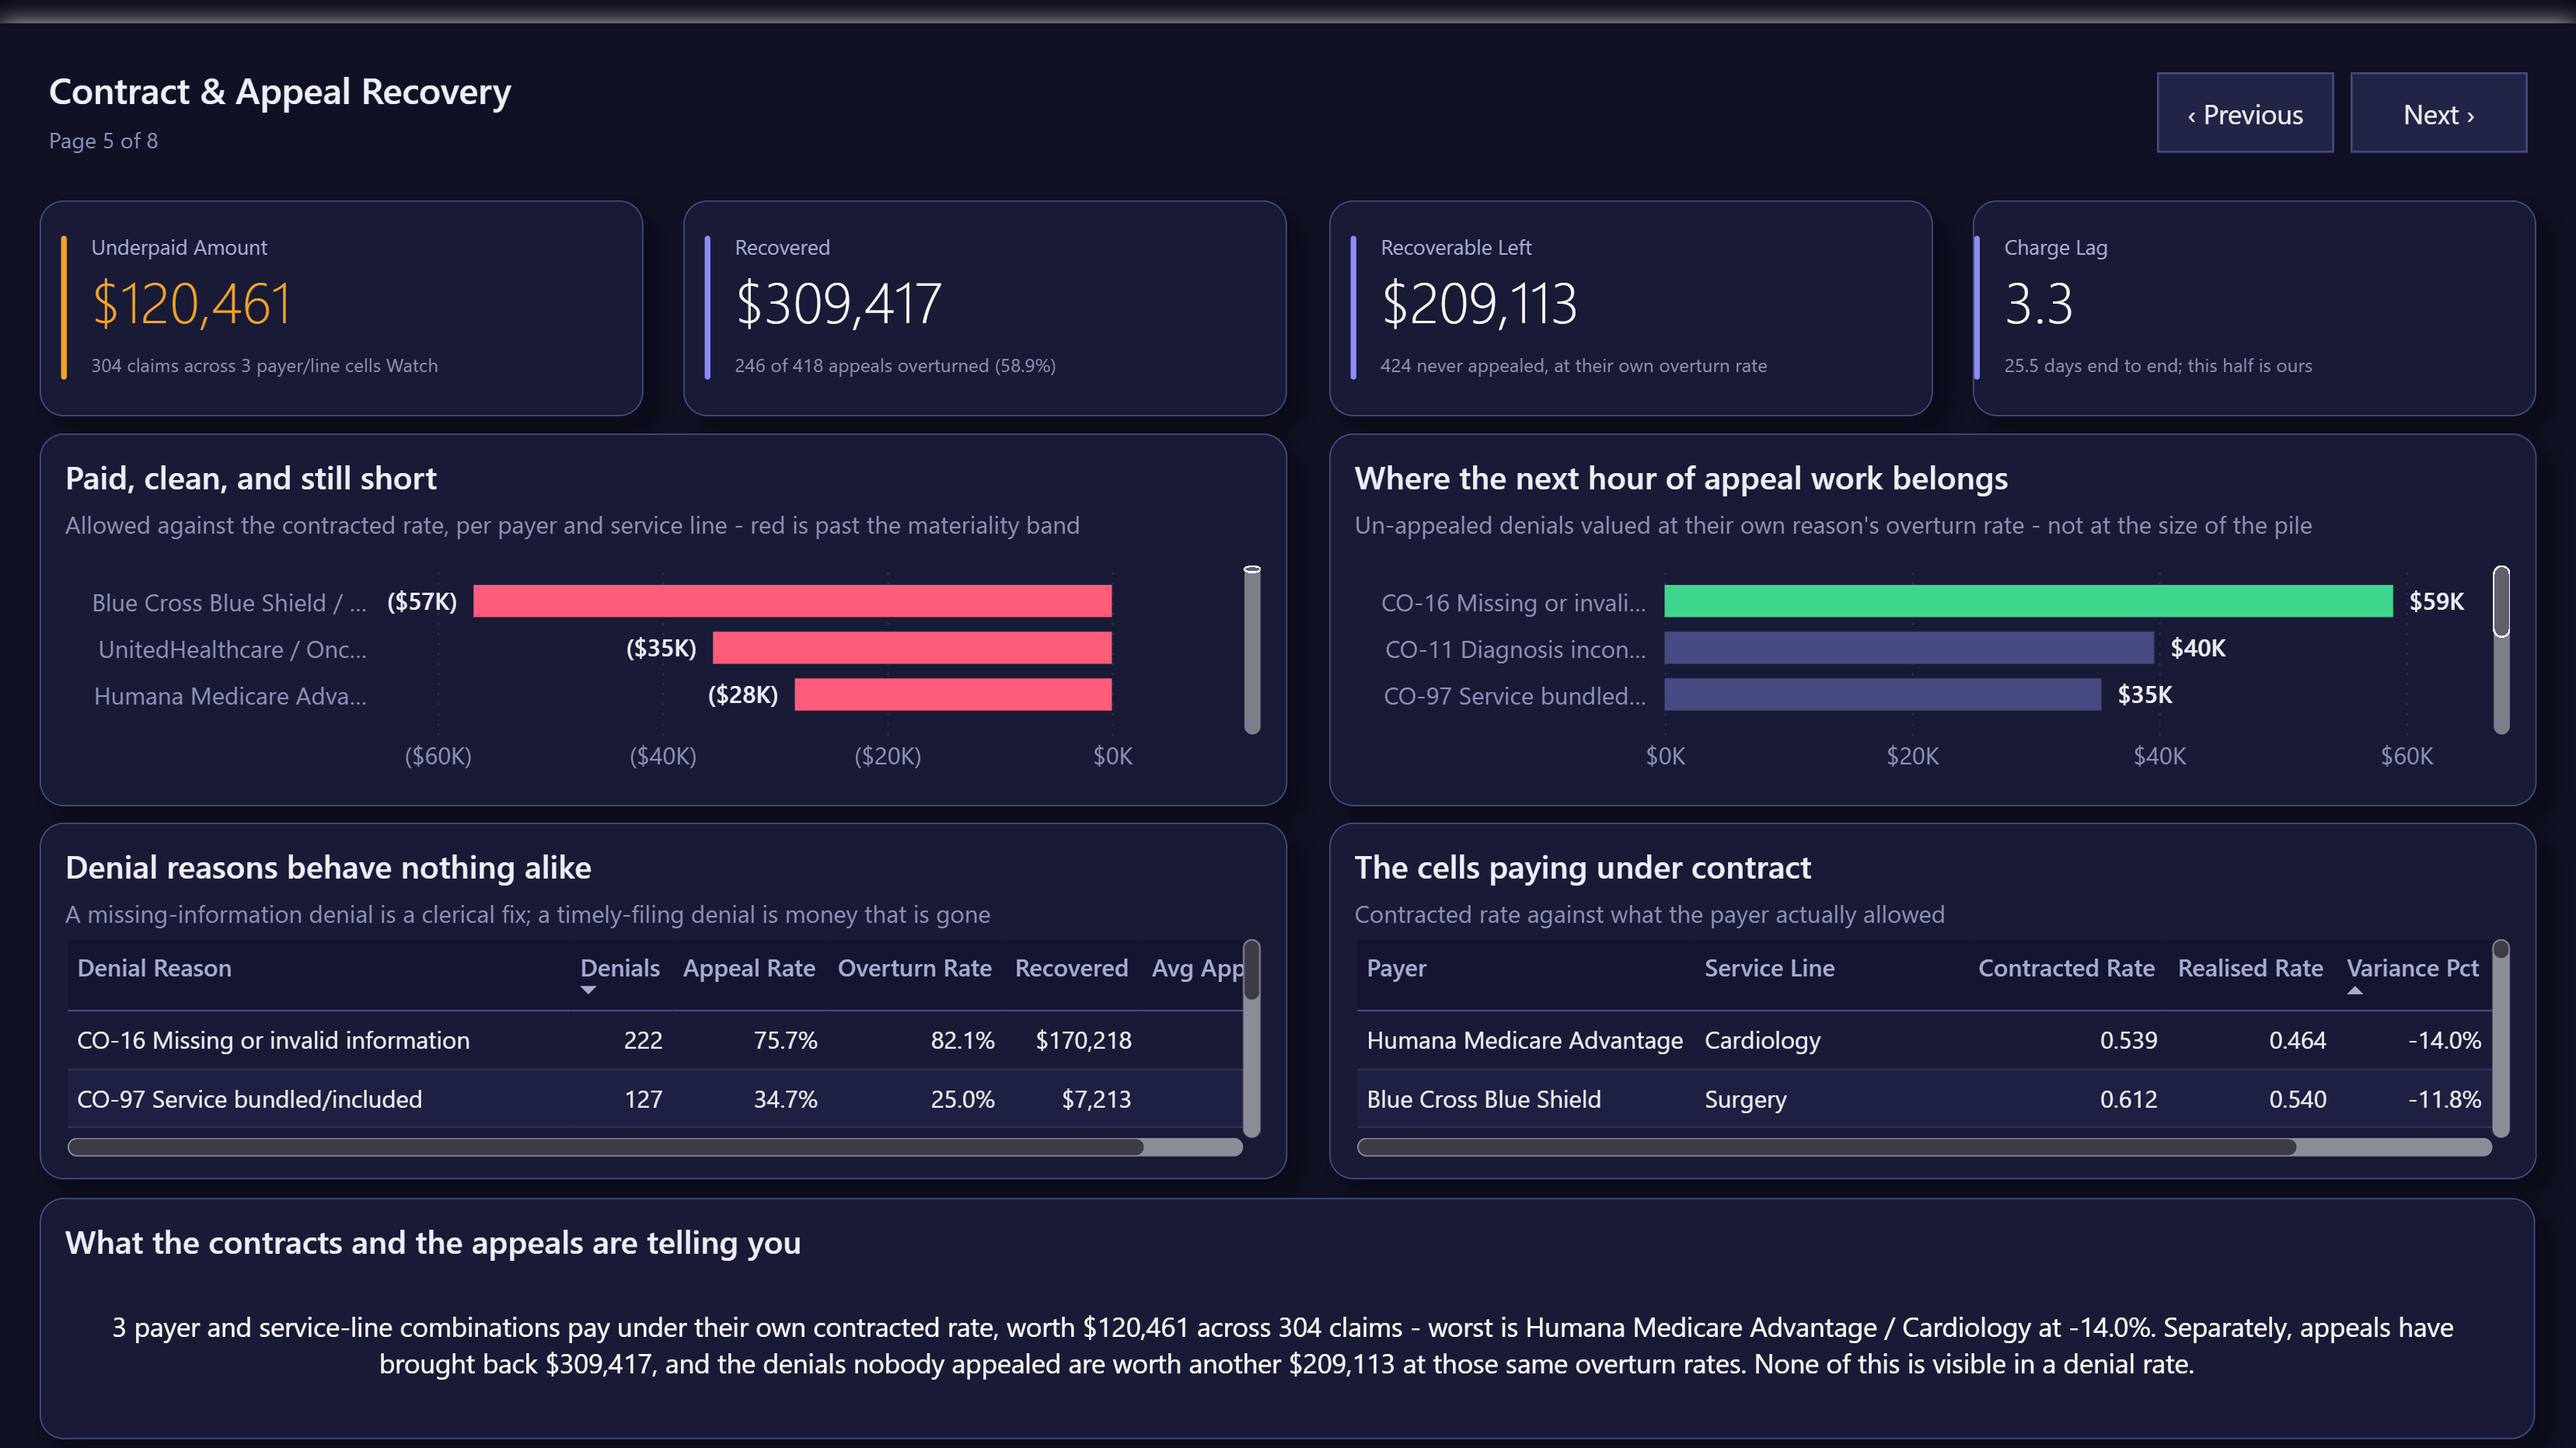
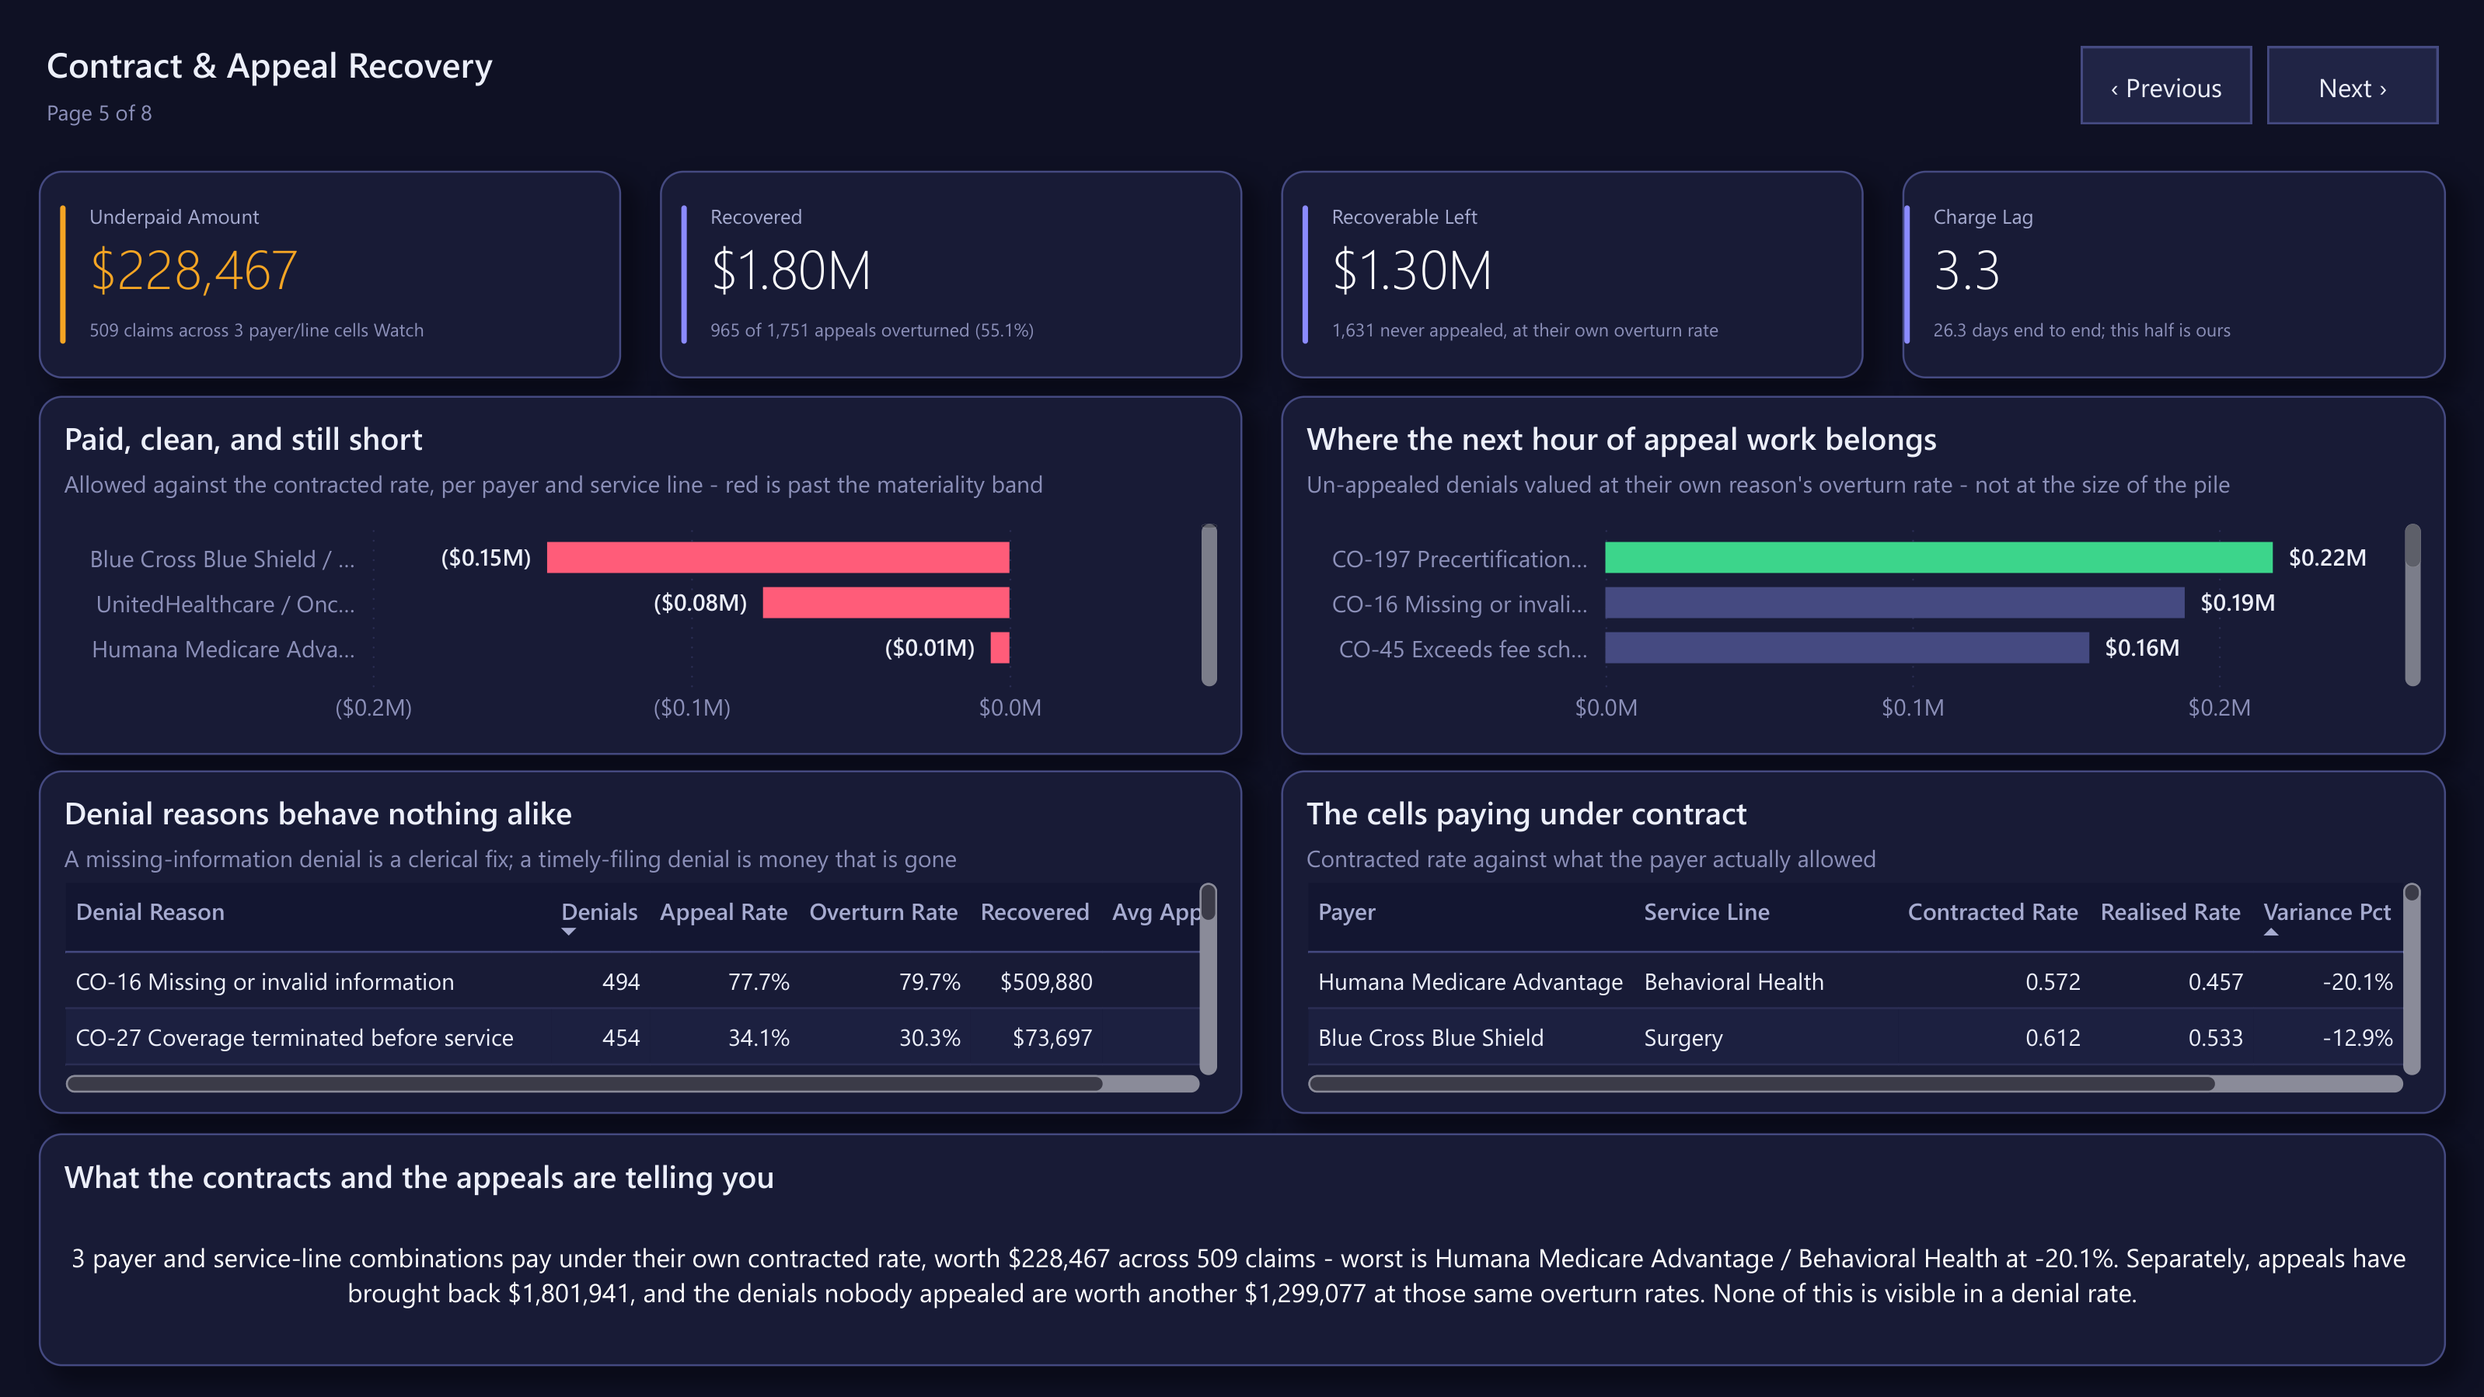
Date both month tables from the facts, and re-shoot the report on the rebuilt seed
The screenshots in this README were taken before the generator was rebuilt, so
every number on them was a year out of date. Re-exporting them found the reason
the numbers could not simply be refreshed.

Both calendars were typed out: dim_month as thirteen months from 2025-07,
dim_activity_month as twenty-four from 2024-07. The rebuilt seed submits claims
across two years from 2024-07, so a full year of them matched no month at all.
Power BI does not complain about that - unmatched keys go to the relationship's
blank member - and the card above the chart stayed right while the chart itself
put $20M in a bucket labelled (Blank) and flattened every real month against it.

Both tables now derive their range from the fact they are joined to: the claims'
submitted dates and the abstracts' discharge dates, rounded to whole months.
`test_the_calendar_is_derived_from_the_fact_it_has_to_cover` holds them there -
it fails on a literal date, on a calendar built from a file it is not joined to,
and on one built from the wrong date column. The old test read the hard-coded
literals to check coverage, which cannot survive the fix it was asking for.

Reading a CSV also brought both tables into the semantic-model checks for the
first time, which is where the twelve extra cases in the count come from;
Table.FromList is recognised as creating a column, the way the other Power Query
steps already were.

All eight pages are re-exported from the refreshed model. The PDF carries no
[…]

diff --git a/tests/test_powerbi_integrity.py b/tests/test_powerbi_integrity.py
@@ -139,50 +139,80 @@ def test_yield_columns_backed_by_engine_output():
 # The Canadian decision-support layer
 # --------------------------------------------------------------------------
 
+#: Each month dimension, the fact whose join column it has to cover, the fact's
+#: CSV, the date column that month label is built from, and the join column itself.
+CALENDARS = [
+    ("dim_activity_month", "fact_inpatient_abstracts.csv", "discharge_date", "discharge_month"),
+    ("dim_month", "fact_claims.csv", "submitted_date", None),
+]
+
+
+def month_labels(csv_name, date_column, label_column):
+    """The months the fact actually carries, as the model labels them."""
+    with open(ROOT / "data" / csv_name, encoding="utf-8") as f:
+        rows = list(csv.DictReader(f))
+    if label_column and label_column in rows[0]:
+        return {r[label_column] for r in rows}
+    return {r[date_column][:7] for r in rows}
+
+
+@pytest.mark.parametrize("dim,csv_name,date_column,label_column", CALENDARS,
+                         ids=[c[0] for c in CALENDARS])
+def test_the_calendar_is_derived_from_the_fact_it_has_to_cover(dim, csv_name, date_column, label_column):
+    """A hard-coded calendar survives exactly until the seed moves.
+
+    Both month tables used to be typed out - `{0..12}` from `#date(2025, 7, 1)`
+    for the claims, `{0..23}` from 2024-07 for the abstracts. When the generator
+    was rebuilt across two years, the claims calendar covered the last thirteen
+    months of it, and a full year of cash collected landed in a **(Blank)** month
+    that still totalled correctly. Power BI says nothing: unmatched keys go to the
+    blank member, the card above the chart stays right, and only the axis shows it.
+
+    So the range is read from the fact now, and this holds it there: the calendar
+    must build itself from the file it is joined to, and every month in that file
+    must fall inside what it builds.
+    """
+    tmdl = (MODEL / "tables" / f"{dim}.tmdl").read_text(encoding="utf-8")
+    assert csv_name in tmdl, (
+        f"{dim} does not read {csv_name}, so nothing ties its range to the data "
+        "it has to cover")
+    assert "List.Min" in tmdl and "List.Max" in tmdl, (
+        f"{dim} does not take its span from the data")
+    assert not re.search(r"#date\(\d{4}", tmdl), (
+        f"{dim} is pinned to a literal date again - the next seed that moves will "
+        "put half the facts in a blank row")
+
+    column = re.search(r'Table\.Column\(\w+,\s*"([^"]+)"\)', tmdl)
+    assert column and column.group(1) == date_column, (
+        f"{dim} builds its months from {column.group(1) if column else 'nothing'}, "
+        f"but the fact is joined on the month of {date_column}")
+
+    labels = month_labels(csv_name, date_column, label_column)
+    first, last = min(labels), max(labels)
+    span = (int(last[:4]) - int(first[:4])) * 12 + int(last[5:7]) - int(first[5:7]) + 1
+    assert span == len(labels) or span >= len(labels), "months are not contiguous"
+    assert len(labels) > 12, (
+        f"{dim}: the fact carries {len(labels)} months - too few for this to prove "
+        "anything about a calendar that used to be pinned to thirteen")
+
+
 def test_every_activity_month_exists_in_its_date_dimension():
-    """The failure this model's second date table exists to prevent.
+    """The relationship the second calendar exists for.
 
-    `dim_month` is generated for the claims period and starts at 2025-07. The
-    inpatient abstracts start twelve months earlier. Point discharge_month at
-    dim_month and Power BI does not complain — it puts every unmatched row in a
-    blank member, and every month-sliced visual quietly reports half the
-    authority's activity with nothing on the canvas to say so.
-
-    So this asserts the join actually covers the data: every discharge month in
-    the fact table must exist in the calendar it is related to. If someone
-    re-points the relationship, or the generator's date range moves, this fails
-    loudly instead of the dashboard failing silently.
+    `dim_month` is the claims calendar; the abstracts start earlier and are counted
+    on their own. Point discharge_month at the wrong one and Power BI does not
+    complain - it puts every unmatched row in a blank member, and every month-sliced
+    visual quietly reports part of the authority's activity with nothing on the
+    canvas to say so.
     """
     rel = (MODEL / "relationships.tmdl").read_text(encoding="utf-8")
     m = re.search(
         r"fromColumn:\s*fact_inpatient_abstracts\.discharge_month\s*\n\s*toColumn:\s*(\S+)\.(\S+)",
         rel)
     assert m, "discharge_month is not related to any date table"
-    dim_table, dim_col = m.group(1), m.group(2)
-    assert dim_table == "dim_activity_month", (
-        f"discharge_month is joined to {dim_table}, which does not span the "
-        f"abstracts' 24 months — half the activity would land in a blank row"
-    )
-
-    tmdl = (MODEL / "tables" / f"{dim_table}.tmdl").read_text(encoding="utf-8")
-    start = re.search(r"#date\((\d{4}),\s*(\d+),\s*\d+\)", tmdl)
-    span = re.search(r"\{0\.\.(\d+)\}", tmdl)
-    assert start and span, f"{dim_table}: cannot read its generated range"
-
-    y, mo, n = int(start.group(1)), int(start.group(2)), int(span.group(1))
-    covered = set()
-    for i in range(n + 1):
-        yy, mm = divmod((y * 12 + mo - 1) + i, 12)
-        covered.add(f"{yy}-{mm + 1:02d}")
-
-    with open(ROOT / "data" / "fact_inpatient_abstracts.csv", encoding="utf-8") as f:
-        actual = {r["discharge_month"] for r in csv.DictReader(f)}
-
-    missing = sorted(actual - covered)
-    assert not missing, (
-        f"{len(missing)} discharge month(s) fall outside {dim_table} and would "
-        f"land in a blank row: {missing[:6]}"
-    )
+    assert m.group(1) == "dim_activity_month", (
+        f"discharge_month is joined to {m.group(1)}, which is built from the claims "
+        "rather than the abstracts")
 
 
 def test_the_canadian_pages_lead_the_report():

diff --git a/tests/test_semantic_model.py b/tests/test_semantic_model.py
@@ -32,6 +32,10 @@ DERIVED_RES = [
     re.compile(r'Table\.UnpivotOtherColumns\([^,]+,\s*\{[^}]*\},\s*"([^"]+)",\s*"([^"]+)"\)'),
     re.compile(r'Table\.RenameColumns\([^,]+,\s*\{(.+?)\}\s*\)', re.S),
     re.compile(r'Table\.Group\([^,]+,\s*\{[^}]*\},\s*\{\{"([^"]+)"'),
+    # A date dimension derived from a fact file READS that file and CREATES its own
+    # columns from a list. Without this the month tables read as typing columns the
+    # claims CSV has never had - which is true, and not a defect.
+    re.compile(r'Table\.FromList\([^,]+,\s*[^,]+,\s*\{"([^"]+)"\}'),
 ]
 RENAME_PAIR_RE = re.compile(r'\{"[^"]+",\s*"([^"]+)"\}')
 
@@ -46,6 +50,7 @@ def derived_columns(text):
     for block in DERIVED_RES[2].findall(text):
         out.update(RENAME_PAIR_RE.findall(block))
     out.update(DERIVED_RES[3].findall(text))
+    out.update(DERIVED_RES[4].findall(text))
     return out
 # A partition body is Power Query, not DAX: its square brackets are record
 # syntax and must not be read as measure references.

diff --git a/README.md b/README.md
@@ -5,7 +5,7 @@
 ![Python](https://img.shields.io/badge/Python-stdlib%20only-3776AB?logo=python&logoColor=white)
 ![SPC](https://img.shields.io/badge/SPC-Laney%20p'%20%2F%20u'-0B5FA5)
 ![HTA](https://img.shields.io/badge/Health%20economics-ICER%20%2B%20PSA-6A4C93)
-![Tests](https://img.shields.io/badge/tests-807%20passing-3B8C6E)
+![Tests](https://img.shields.io/badge/tests-819%20passing-3B8C6E)
 ![License: MIT](https://img.shields.io/badge/License-MIT-green.svg)
 
 Two health systems, one engineering standard.
@@ -724,7 +724,7 @@ python governance/deidentify.py
 python governance/data_quality.py
 python governance/decision_assurance.py       # measure register, release gates, manifest
 
-pytest tests/ -v                            # 807 invariants
+pytest tests/ -v                            # 819 invariants
 ```
 
 Then open `powerbi/pbip/RevenueCycleAnalytics.pbip` (see
@@ -810,7 +810,7 @@ docs/               BRIEFING_NOTE.md · BUSINESS_CASE.md · SOURCE_TO_TARGET.md 
                     DECISION_ASSURANCE_RUNBOOK.md
 output/             every engine result — reproducible outside Power BI
 powerbi/            ready-to-open PBIP (TMDL model + PBIR report, 22 DAX measures)
-tests/              807 invariants across activity, SPC, economics, governance,
+tests/              819 invariants across activity, SPC, economics, governance,
                     revenue cycle, and Power BI model/report integrity
 .github/workflows/  CI — full rebuild, invariants, and the DQ sabotage proof
 ```
